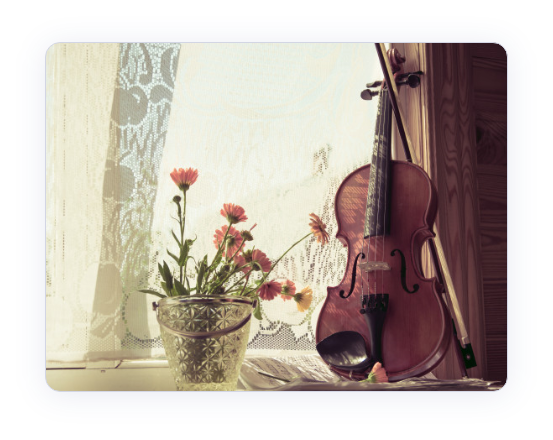
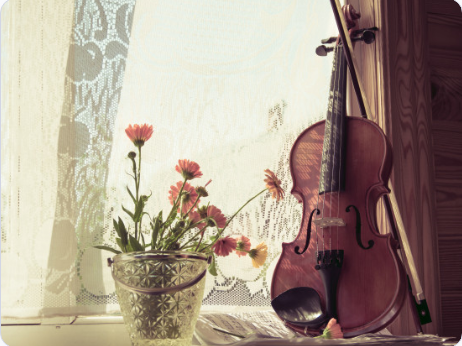
theme1001-video thumbnail fix

diff --git a/resources/js/components/resume_themes/theme1001/components/Media/Video.vue b/resources/js/components/resume_themes/theme1001/components/Media/Video.vue
@@ -1,9 +1,9 @@
 <template>
-  <v-card class="video-tm903">
+  <v-card class="video-tm1001">
     <div ref="videoPoster">
-      <v-img class="img-video-tm903" cover :src="img" alt>
+      <v-img class="img-video-tm1001" cover :src="img" alt>
         <v-btn
-          class="b-play-tm903"
+          class="b-play-tm1001"
           color="#D4DDFF"
           height="90"
           width="90"
@@ -17,7 +17,7 @@
         </v-btn>
       </v-img>
     </div>
-    <div ref="videotm903" class="videotm903">
+    <div ref="videotm1001" class="videotm1001">
       <v-icon @click.prevent="stopVideo()" right>mdi-close</v-icon>
       <video width="100%" ref="videoElem" controls :src="link"></video>
     </div>
@@ -38,12 +38,12 @@ export default {
   },
   methods: {
     playVideo() {
-      this.$refs.videotm903.style.display = "block";
+      this.$refs.videotm1001.style.display = "block";
       this.$refs.videoPoster.style.display = "none";
       this.$refs.videoElem.play();
     },
     stopVideo() {
-      this.$refs.videotm903.style.display = "none";
+      this.$refs.videotm1001.style.display = "none";
       this.$refs.videoPoster.style.display = "block";
       this.$refs.videoElem.pause();
     }
@@ -52,11 +52,15 @@ export default {
 </script>
 
 <style lang="scss" scoped>
-.video-tm903 {
-  box-shadow: 0px 6px 6px rgba(0, 0, 0, 0.15);
-  border-radius: 10px;
+.video-tm1001 {
+  box-shadow: 0px 0px 0px rgba(0, 0, 0, 0);
+  .img-video-tm1001 {
+    box-shadow: 0px 0px 0px rgba(0, 0, 0, 0);
 
-  .b-play-tm903 {
+    border-radius: 10px;
+  }
+
+  .b-play-tm1001 {
     left: -20%;
     top: 38%;
     @media only screen and (max-width: 597px) {
@@ -64,7 +68,7 @@ export default {
       top: 38%;
     }
   }
-  .videotm903 {
+  .videotm1001 {
     display: none;
   }
 }
